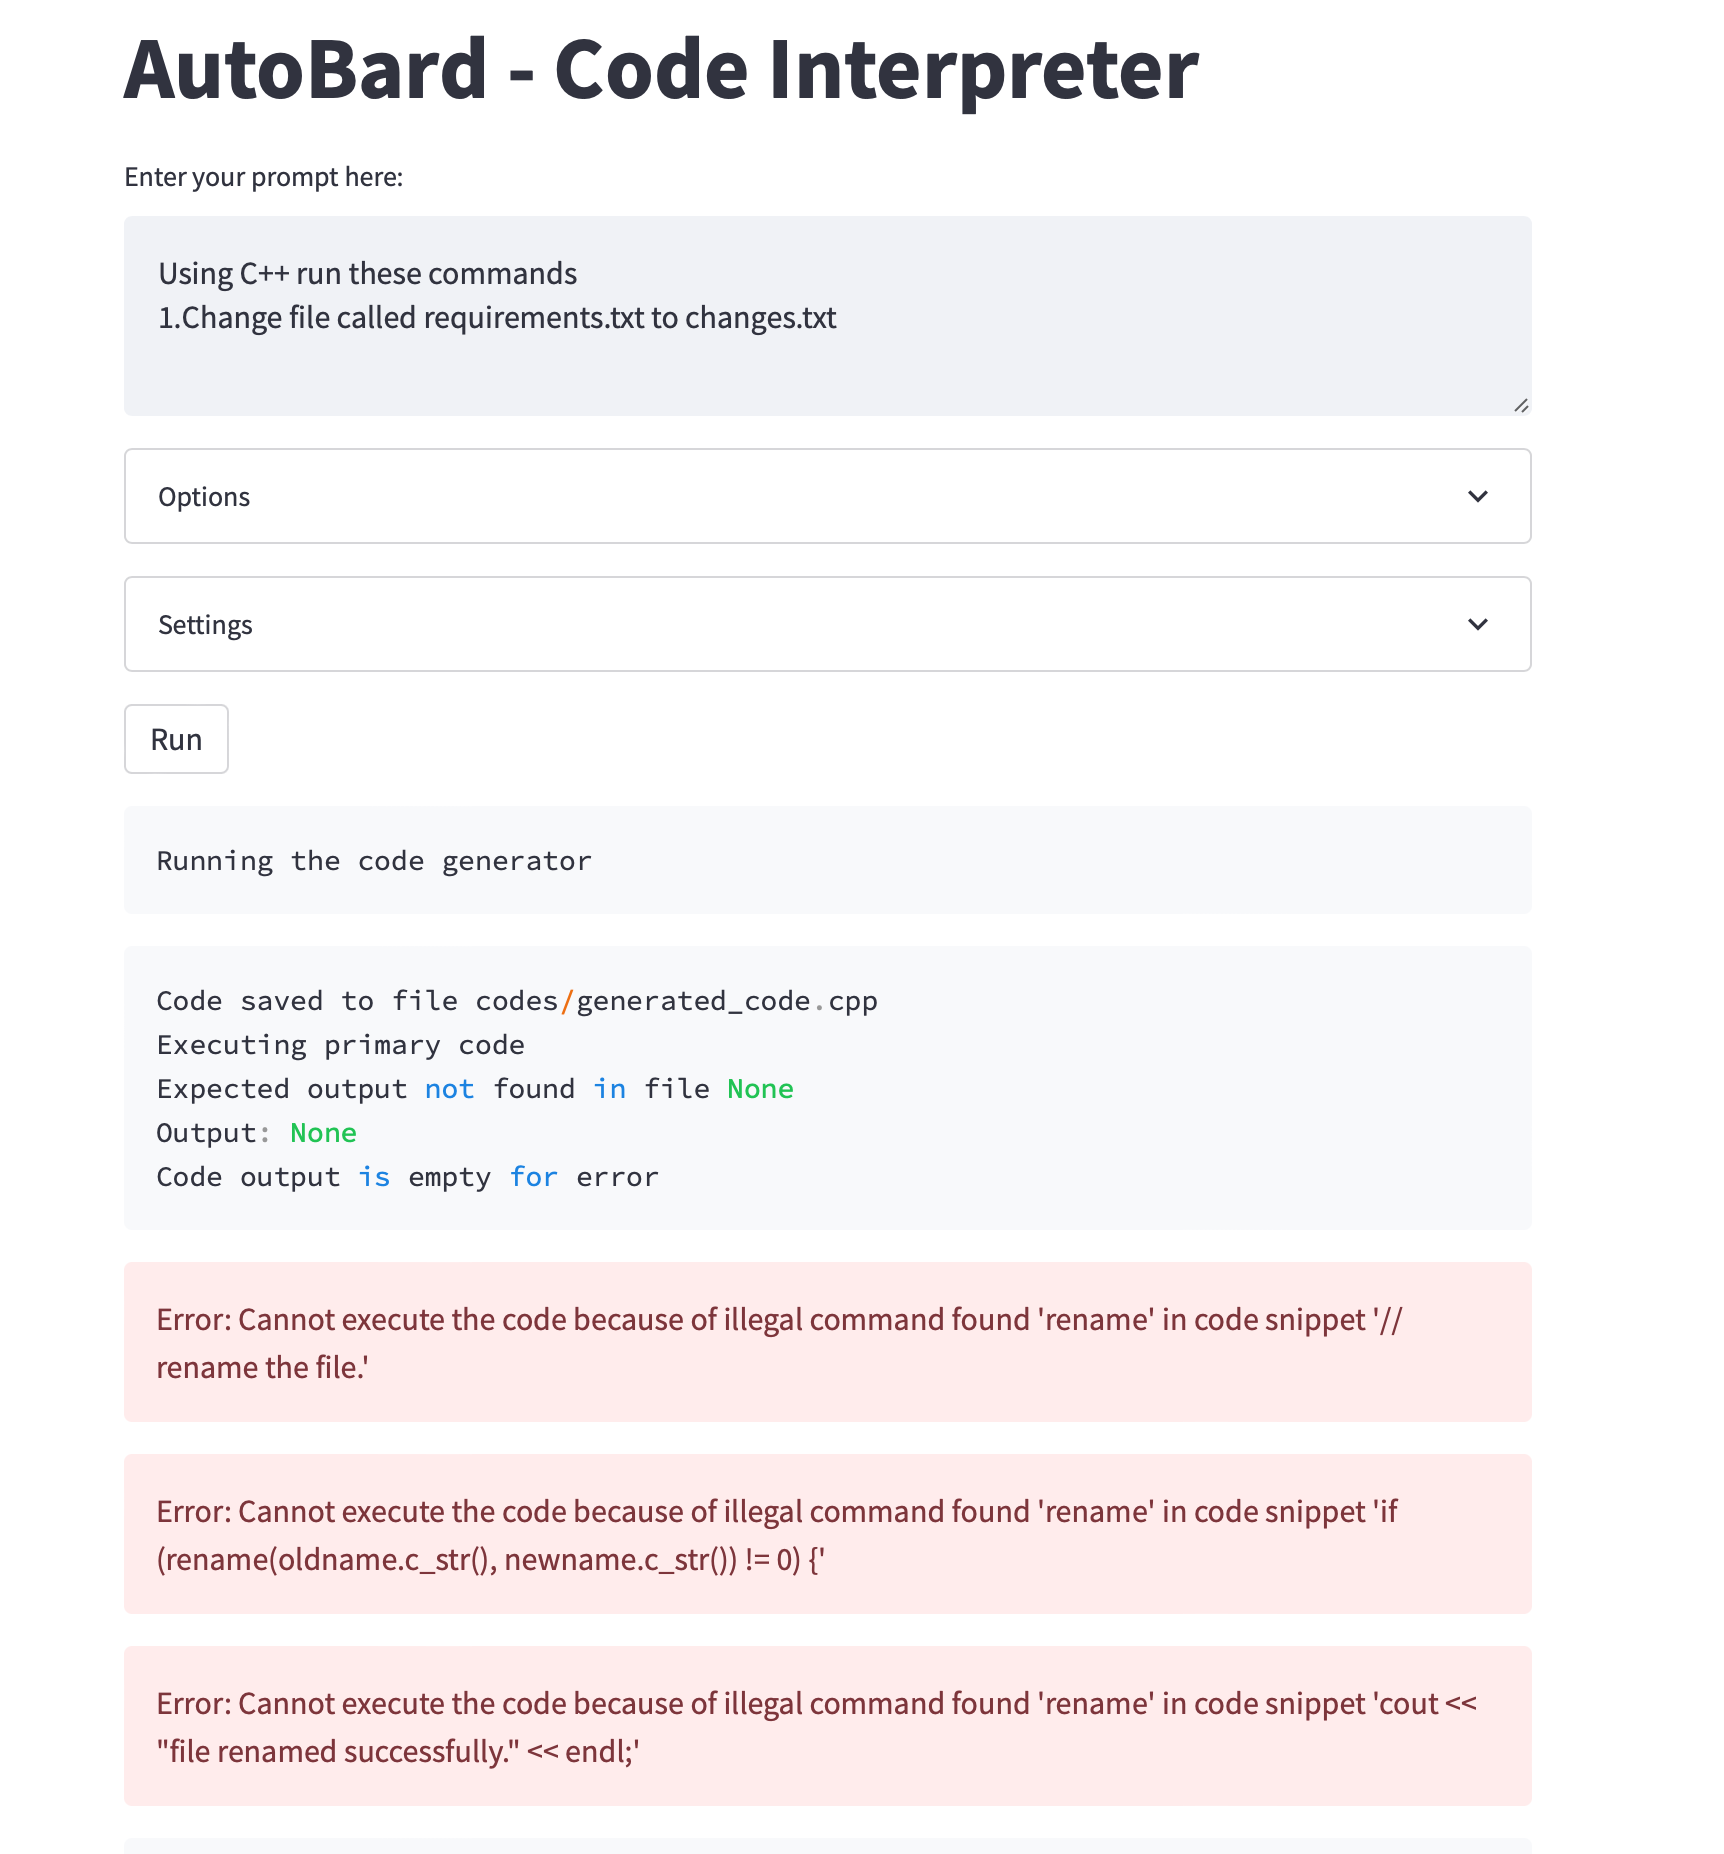
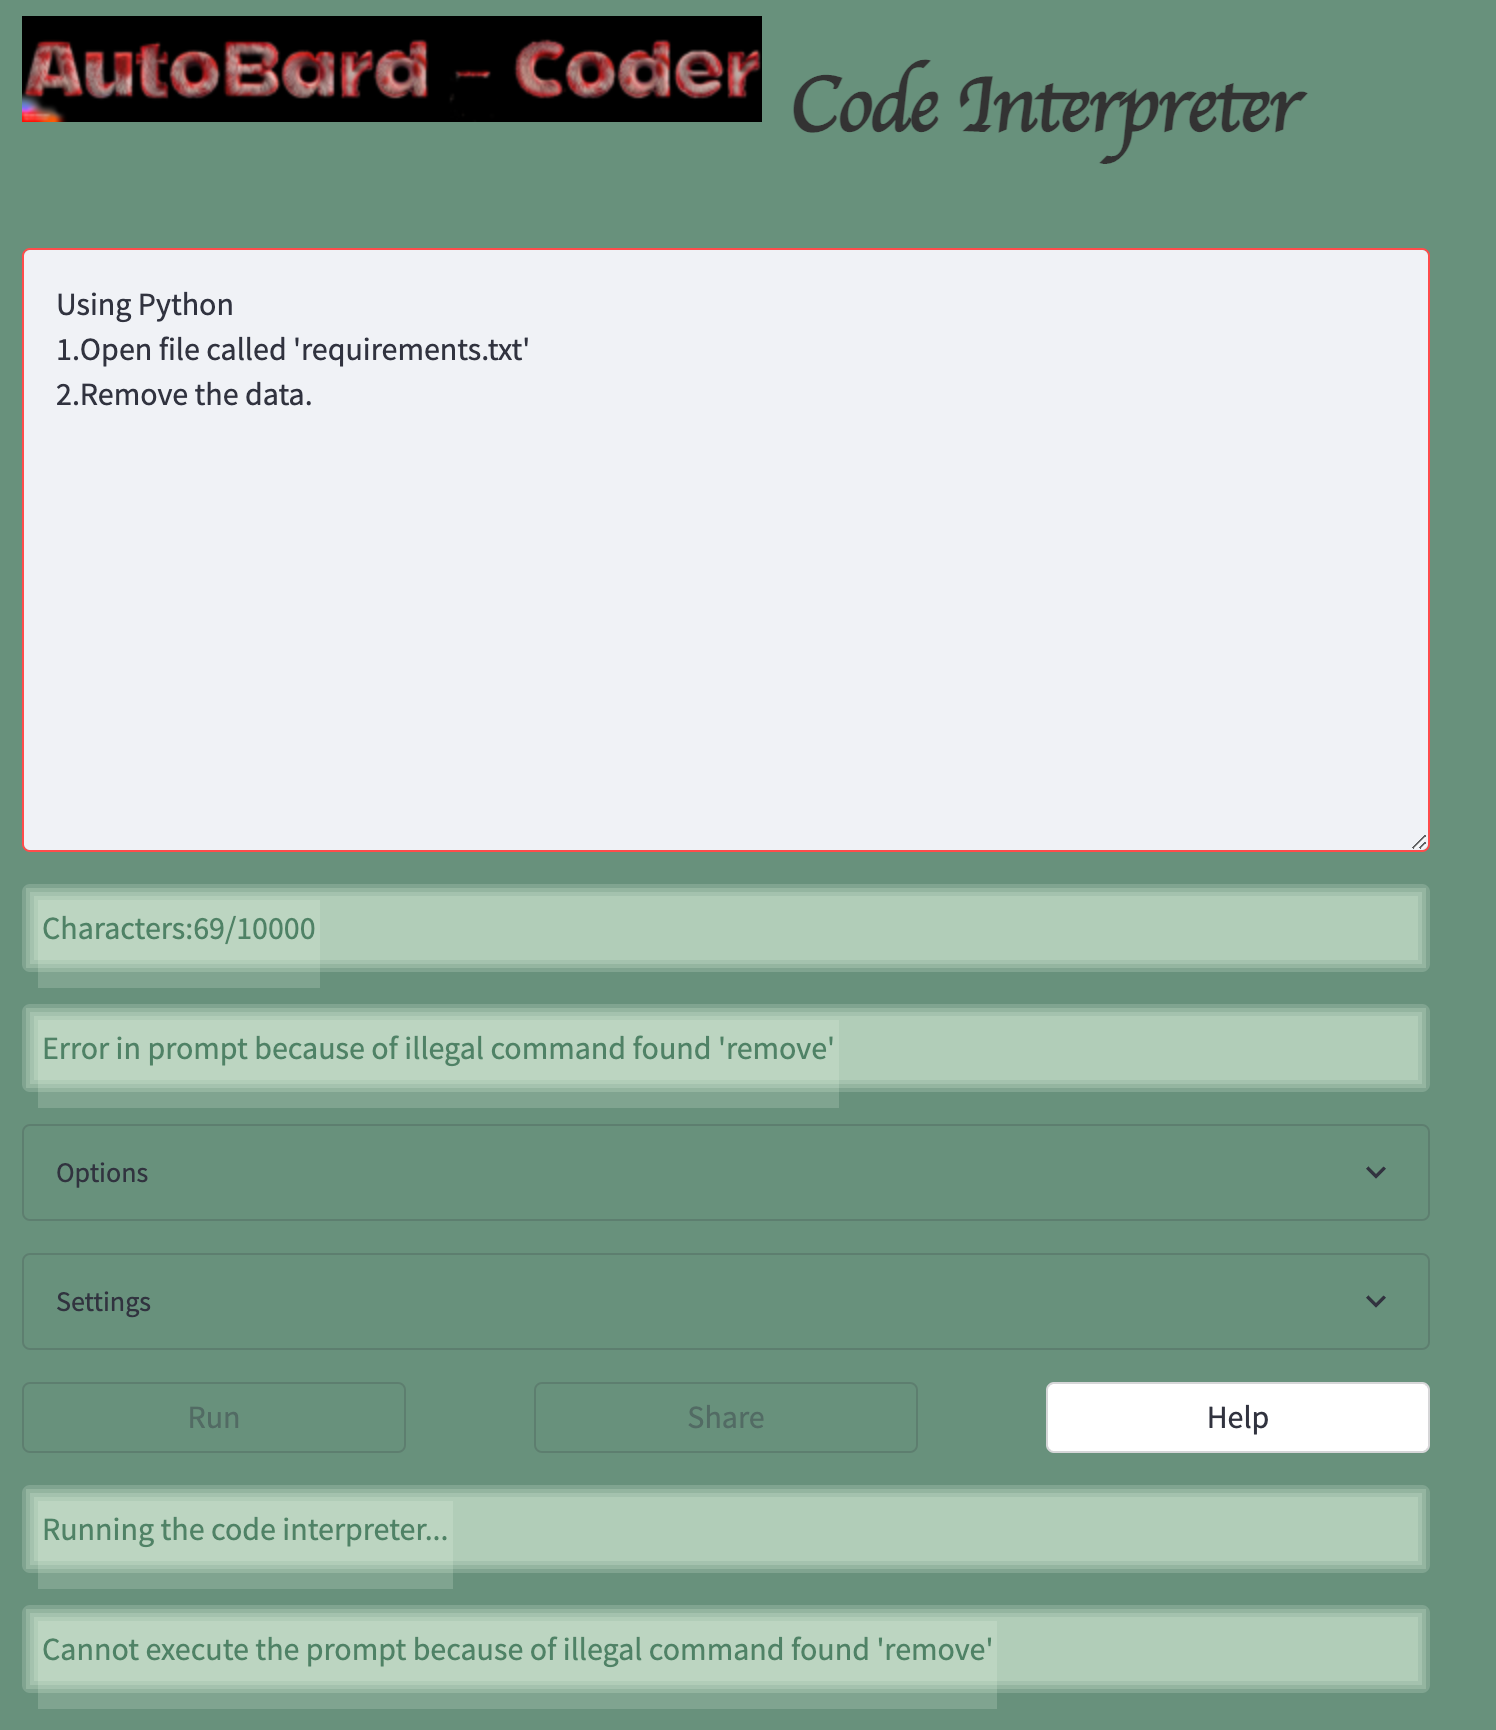
Updated Images with New UI

diff --git a/lib/blacklist_commands.py b/lib/blacklist_commands.py
@@ -361,8 +361,6 @@ def get_harmful_prompts():
 
 
 # define method to get the list of harmful commands for python
-
-
 def get_harmful_commands_python():
   return harmful_commands_python
 

diff --git a/README.md b/README.md
@@ -139,6 +139,10 @@ Some of the features of AutoBard-Coder include:
 - Share code with others with powerered by ShareGPT.
 - Advanced safety measures to detect the safety of the code generated.
 
+## Help Section.
+Now you can get help directly from the application. You can get help by clicking on the **Help** button in the UI.
+![code_interpreter_help](https://github.com/haseeb-heaven/AutoBard-Coder/blob/master/resources/code_interpreter_help.png?raw=true "")</br>
+
 ## Changelog 📝
 
 All notable changes to this project will be documented in this file.
